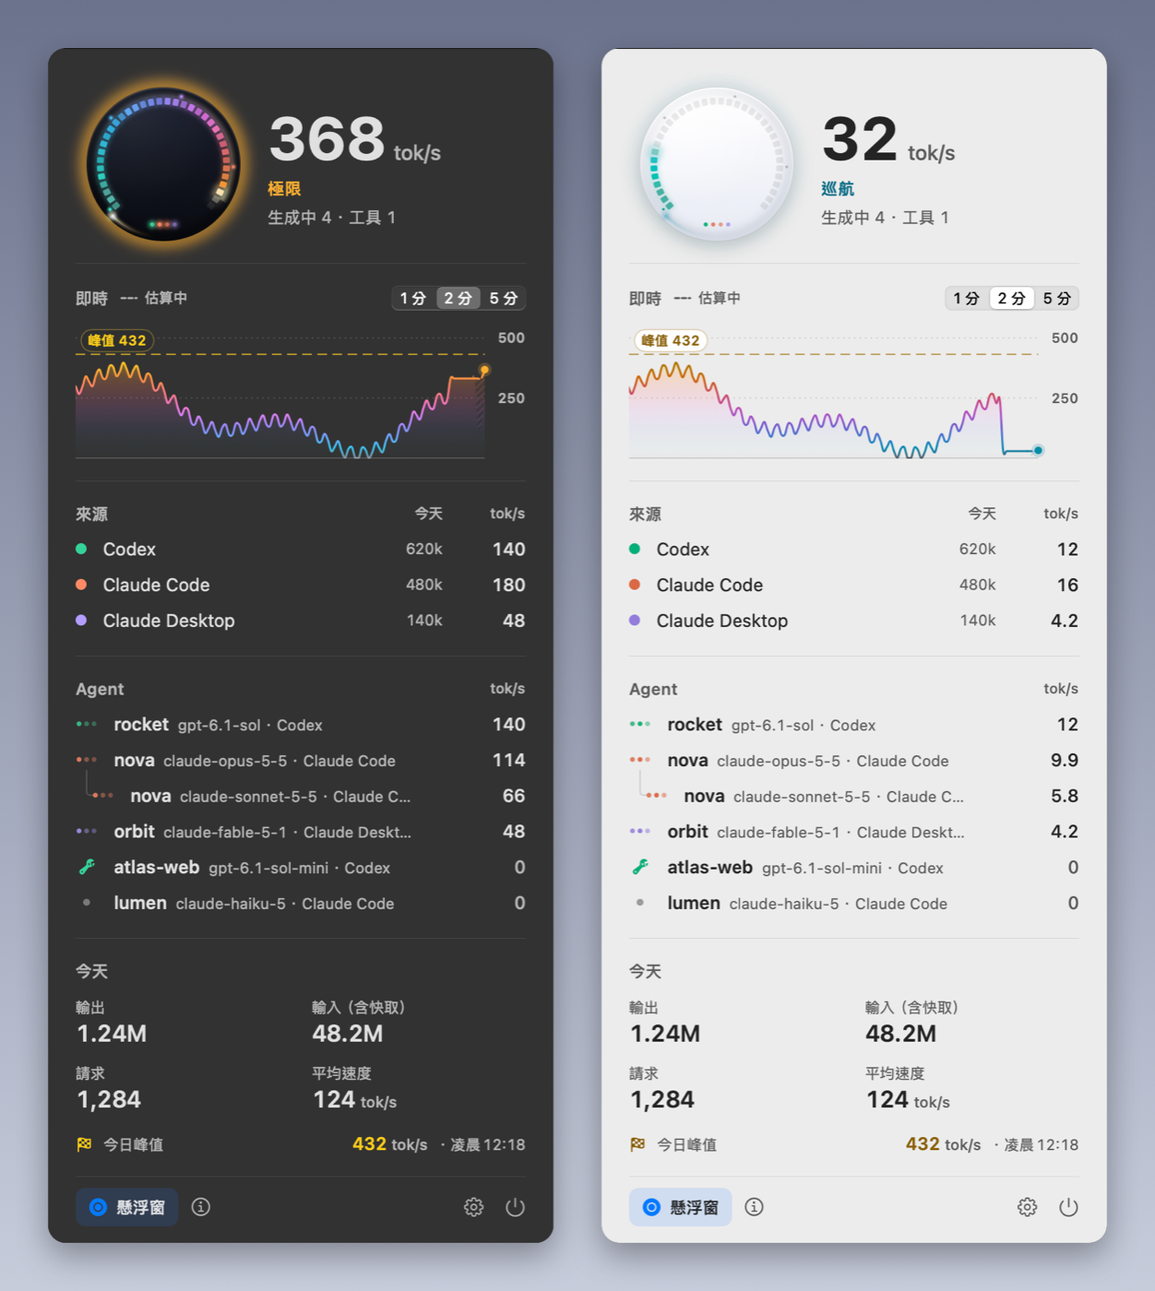
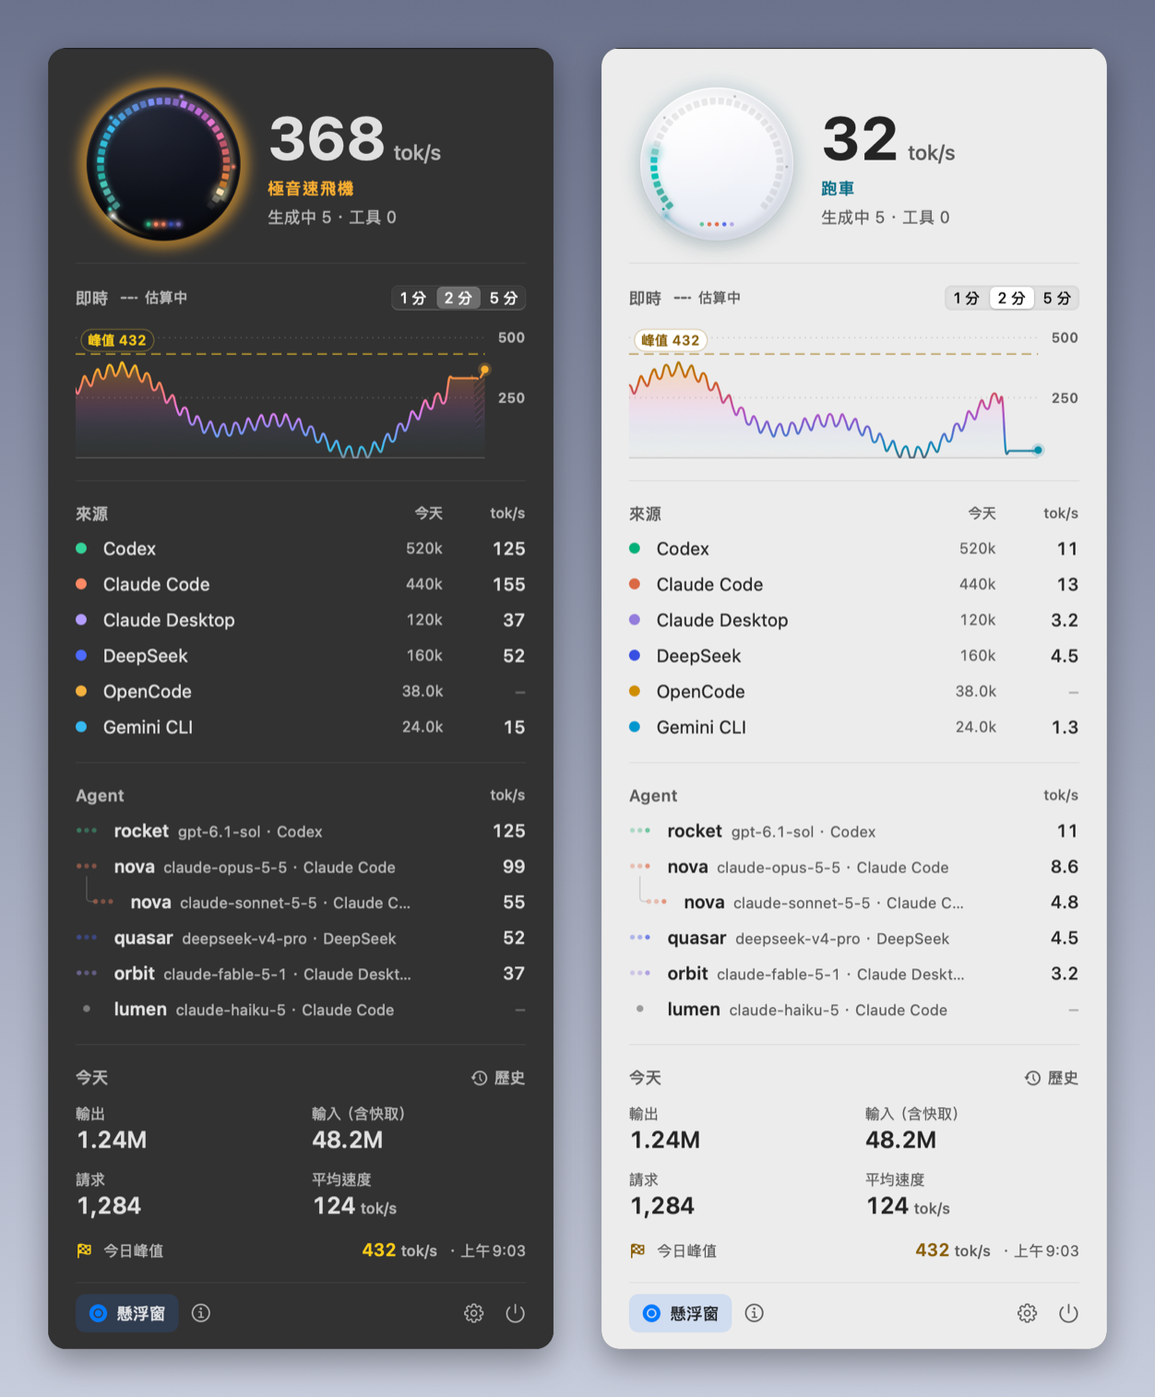
Refresh README screenshots and text for the new sources, titles and usage history
Previews now copy the redline into the gauge before snapping, so every preview
shows the title and gauge for its speed; GaugeChecks verifies the real path.

diff --git a/macos/Sources/AgentSpeed/App/GaugeChecks.swift b/macos/Sources/AgentSpeed/App/GaugeChecks.swift
@@ -1,0 +1,45 @@
+import AgentSpeedCore
+import Foundation
+
+/// Checks of the speed-title path the app itself takes (`LiveGauge.ingest`, hysteresis, the 0.8 s hold and the
+/// decision timer), run by `--render-previews`. Results land in `gauge-checks.txt`; failures also go to stderr.
+@MainActor
+enum GaugeChecks {
+    static func run(into directory: URL) {
+        var results: [(String, Bool)] = []
+        func check(_ name: String, _ condition: Bool) { results.append((name, condition)) }
+
+        // Ladder positions at the default redline.
+        check("32 tok/s is a sports car at R = 400", SpeedTitle.step(for: 32, redline: 400) == .sportsCar)
+        check("31.9 tok/s is still a car", SpeedTitle.step(for: 31.9, redline: 400) == .car)
+        check("400 tok/s is a rocket", SpeedTitle.step(for: 400, redline: 400) == .rocket)
+        check("0.5 tok/s walks", SpeedTitle.step(for: 0.5, redline: 400) == .walk)
+
+        // The tracker climbs straight to the right title, but only after the hold.
+        var tracker = TitleTracker()
+        let early = tracker.update(value: 32, redline: 400, now: 0) || tracker.update(value: 32, redline: 400, now: 0.5)
+        check("no title before the 0.8 s hold", !early && tracker.shown == .idle)
+        check("sports car after the hold", tracker.update(value: 32, redline: 400, now: 0.81) && tracker.shown == .sportsCar)
+        check("hysteresis keeps the title above 90 %", !tracker.update(value: 29, redline: 400, now: 2) && tracker.shown == .sportsCar)
+        _ = tracker.update(value: 28, redline: 400, now: 3)
+        check("leaves below 90 % after the hold", tracker.update(value: 28, redline: 400, now: 3.81) && tracker.shown == .car)
+
+        // The app path: a steady 32 tok/s ingested once reaches the title through the gauge's own decision timer.
+        let gauge = LiveGauge()
+        gauge.redline = 400
+        let start = Clock.now
+        gauge.ingest(32, now: start)
+        check("gauge holds the title at first", gauge.title == .idle)
+        RunLoop.main.run(until: Date().addingTimeInterval(1.1))
+        check("gauge reaches sports car on its own after the hold", gauge.title == .sportsCar)
+        check("effect tier stays cruise", gauge.tier == .cruise)
+        gauge.ingest(32, now: Clock.now)
+        check("steady value keeps the title", gauge.title == .sportsCar)
+
+        let report = results.map { "\($0.1 ? "PASS" : "FAIL")  \($0.0)" }.joined(separator: "\n")
+        try? (report + "\n").write(to: directory.appendingPathComponent("gauge-checks.txt"), atomically: true, encoding: .utf8)
+        for (name, passed) in results where !passed {
+            FileHandle.standardError.write(Data("gauge check failed: \(name)\n".utf8))
+        }
+    }
+}

diff --git a/macos/Sources/AgentSpeed/App/HistoryPreviews.swift b/macos/Sources/AgentSpeed/App/HistoryPreviews.swift
@@ -139,10 +139,17 @@ enum HistoryPreviews {
                     window.appearance = NSAppearance(named: dark ? .darkAqua : .aqua)
                     window.setContentSize(item.size)
                     window.center()
-                    // Screenshots need the active-window look; cooperative activation alone may be declined.
-                    _ = NSApp.perform(NSSelectorFromString("activateIgnoringOtherApps:"), with: true)
-                    window.makeKeyAndOrderFront(nil)
-                    try? await Task.sleep(for: .seconds(1.2))
+                    // Wherever the pointer happens to be, it must not leave a hover state in the picture.
+                    window.ignoresMouseEvents = true
+                    // Screenshots need the active-window look; cooperative activation alone may be declined,
+                    // so ask again until the window is key (or give up after a few tries).
+                    for _ in 0..<8 where !window.isKeyWindow {
+                        NSApp.activate()
+                        _ = NSApp.perform(NSSelectorFromString("activateIgnoringOtherApps:"), with: true)
+                        window.makeKeyAndOrderFront(nil)
+                        try? await Task.sleep(for: .seconds(0.3))
+                    }
+                    try? await Task.sleep(for: .seconds(1.0))
                     let url = directory.appendingPathComponent("screen-\(item.name)-\(dark ? "dark" : "light").png")
                     let process = Process()
                     process.executableURL = URL(fileURLWithPath: "/usr/sbin/screencapture")

diff --git a/macos/Sources/AgentSpeed/App/PreviewRenderer.swift b/macos/Sources/AgentSpeed/App/PreviewRenderer.swift
@@ -19,6 +19,7 @@ enum PreviewRenderer {
         )
         model.activate(live: false)
         let redline = model.settings.redline
+        GaugeChecks.run(into: directory)
 
         if wants("orb") {
             SurfacePreviews.renderOrbs(model: model, into: directory)
@@ -98,7 +99,15 @@ enum PreviewRenderer {
 
     static func publish(_ model: AppModel, snapshot: SpeedSnapshot) {
         model.store.publishLive(snapshot)
-        model.gauge.snap(to: model.value(of: snapshot.live), now: Clock.now)
+        snapGauge(model, to: model.value(of: snapshot.live), now: Clock.now)
+    }
+
+    /// Snaps the gauge, title and tier to `value` at the current settings. The app syncs the gauge's redline from the
+    /// settings asynchronously, so a preview that just changed the redline (the redline ladder renders) would
+    /// otherwise snap against a stale one and show the wrong title and heat.
+    static func snapGauge(_ model: AppModel, to value: Double, tier: SpeedTier? = nil, now: TimeInterval) {
+        model.gauge.redline = model.settings.redline
+        model.gauge.snap(to: value, tier: tier, now: now)
     }
 }
 

diff --git a/macos/Sources/AgentSpeed/App/SurfacePreviews.swift b/macos/Sources/AgentSpeed/App/SurfacePreviews.swift
@@ -55,7 +55,7 @@ enum SurfacePreviews {
         let snapshot = PreviewData.snapshot(speed: speed, redline: model.settings.redline)
         model.store.publishLive(snapshot)
         let now = Clock.now
-        model.gauge.snap(to: speed, tier: tier, now: now - 3)
+        PreviewRenderer.snapGauge(model, to: speed, tier: tier, now: now - 3)
         let interaction = OrbInteraction()
         interaction.isHovered = extra == .hover
         let animator = OrbAnimator(style: .floating)
@@ -94,7 +94,7 @@ enum SurfacePreviews {
             var images: [NSImage] = []
             for value in values {
                 model.store.publishLive(PreviewData.snapshot(speed: value, redline: redline))
-                model.gauge.snap(to: value, now: Clock.now - 3)
+                PreviewRenderer.snapGauge(model, to: value, now: Clock.now - 3)
                 let state = StatusItemState(model: model, time: Clock.now)
                 let size = CGSize(width: 120, height: state.layout.height)
                 let image = NSImage(size: size, flipped: true) { rect in

diff --git a/macos/Sources/AgentSpeed/App/TitlePreviews.swift b/macos/Sources/AgentSpeed/App/TitlePreviews.swift
@@ -33,7 +33,7 @@ enum TitlePreviews {
                 let heroes = heroTitles.compactMap { title -> NSImage? in
                     let speed = speed(for: title, redline: model.settings.redline)
                     PreviewRenderer.publish(model, speed: speed)
-                    model.gauge.snap(to: speed, now: Clock.now - 3)
+                    PreviewRenderer.snapGauge(model, to: speed, now: Clock.now - 3)
                     return heroImage(model: model, dark: dark)
                 }
                 SurfacePreviews.writeColumn(heroes, to: directory.appendingPathComponent("titles-hero-\(language.rawValue)-\(scheme).png"))

diff --git a/README.md b/README.md
@@ -4,7 +4,7 @@
 
 # Agent Speed
 
-**Feel your AI agents run.** A native racing instrument for the live token speed of Codex, Claude Code, Claude Desktop and DeepSeek Harness — calm when idle, on fire at the redline.
+**Feel your AI agents run.** A native racing instrument for the live token speed of Codex, Claude Code, Claude Desktop, DeepSeek Harness, OpenCode and Gemini CLI — calm when idle, on fire at the redline.
 
 [English](README.md) · [繁體中文](README.zh-TW.md) · [简体中文](README.zh-CN.md) · [日本語](README.ja.md)
 
@@ -49,14 +49,17 @@ Add `--purge` / `-Purge` to remove settings as well. On Windows you can also uni
 
 ## What you get
 
-- **Floating orb** — a smoked-glass instrument with a 36-segment LED gauge. As speed climbs through *Cruise → Boost → Overdrive → Redline*, the gauge sweeps through the heat spectrum, a comet races around the ring, sparks fly, embers rise and every finished response sends out a shockwave. Beat your daily peak and it celebrates.
+- **Floating orb** — a smoked-glass instrument with a 36-segment LED gauge. As speed climbs, so does its title — from *Walking* and *Bicycle* through *Bullet Train* and *Fighter Jet* to *Rocket* at the redline — while the gauge sweeps through the heat spectrum, a comet races around the ring, sparks fly, embers rise and every finished response sends out a shockwave. Beat your daily peak and it celebrates.
 - **Menu bar / taskbar** — a compact gauge and number that never jitters, right where you look. On Windows it lives inside the taskbar, next to the clock.
-- **Dashboard** — live chart, per-source speed, every active agent (including sub-agents) with its phase, and today's totals.
+- **Dashboard** — live chart, per-source speed, every active agent (including sub-agents) with its phase, and today's totals. Click a source to open its history.
+- **Usage history** — every day since your oldest log: output and input tokens, requests, average speed and peak, charted by source over any date range, with CSV export. Only daily totals are kept, so your history survives even after your tools delete old logs.
 - **Native everywhere** — SwiftUI + AppKit on macOS, WPF with Fluent/Mica on Windows. Light, dark or automatic theme. English, 繁體中文, 简体中文, 日本語.
 - **Humane** — effects intensity from *Off* to *Max*, respects Reduce Motion and high contrast, click-through mode, magnetic edges, remembers its place on every display, launches at login.
 - **Always current** — checks GitHub Releases in the background and updates with one click, verified by SHA-256.
 
 <p align="center"><img src="docs/images/dashboards.png" width="560" alt="Dashboard in dark and light"></p>
+
+<p align="center"><img src="docs/images/history.png" width="760" alt="Usage history window"></p>
 
 ## How speed is measured
 
@@ -64,10 +67,12 @@ Agent Speed reads the transcripts your agents already write on your disk:
 
 | Source | Folder |
 | --- | --- |
-| Codex (CLI, IDE, desktop) | `~/.codex/sessions` (or `$CODEX_HOME/sessions`) |
+| Codex (CLI, IDE, desktop) | `~/.codex/sessions` and `archived_sessions`, compressed logs included (or `$CODEX_HOME`) |
 | Claude Code (CLI, IDE) | `~/.claude/projects` (or `$CLAUDE_CONFIG_DIR/projects`) |
 | Claude Desktop (Code and agent sessions) | `~/.claude/projects`, told apart automatically |
 | DeepSeek Harness (`dsh`, desktop and CLI) | `~/.dsh/sessions` (or `$DSH_HOME/sessions`) |
+| OpenCode (CLI and desktop) | `~/.local/share/opencode/opencode.db` (or `$XDG_DATA_HOME/opencode`) |
+| Gemini CLI | `~/.gemini/tmp` (or `$GEMINI_CLI_HOME/.gemini/tmp`) |
 
 **Speed = output tokens ÷ the real time the model spent on them** — from the moment the request was sent until the response finished, including time to first token. Parallel agents add up. While a response is still streaming, it is estimated from that agent's recent measured speed and corrected with the measured value the instant it completes. Optionally you can switch to *total throughput* (input + output).
 
@@ -77,7 +82,7 @@ Ordinary Claude Desktop chat conversations are not stored on your computer, so t
 
 ## Privacy
 
-Read-only. Local-only. No telemetry, no accounts. The only network request is the update check against GitHub Releases (it can be turned off), which sends nothing about you. Agent Speed never stores or displays conversation content — only token counts, model names and project folder names. Updates are verified against the release's SHA-256 checksums before they are installed; the checksums are published with the release, so they catch corrupted or tampered downloads, not a compromised repository.
+Read-only. Local-only. No telemetry, no accounts. The only network request is the update check against GitHub Releases (it can be turned off), which sends nothing about you. Agent Speed never stores or displays conversation content — only token counts, model names and project folder names. The usage history keeps only daily totals, in a small database on your computer (`~/Library/Application Support/AgentSpeed`, `%LOCALAPPDATA%\AgentSpeed`), and can be cleared in Settings. Updates are verified against the release's SHA-256 checksums before they are installed; the checksums are published with the release, so they catch corrupted or tampered downloads, not a compromised repository.
 
 ## Build from source
 

diff --git a/README.zh-TW.md b/README.zh-TW.md
@@ -4,7 +4,7 @@
 
 # Agent Speed
 
-**看見你的 AI agent 全速奔跑。** 為 Codex、Claude Code、Claude Desktop 與 DeepSeek Harness 打造的原生即時 token 速度儀表——閒置時安靜，衝到紅線時全面燃燒。
+**看見你的 AI agent 全速奔跑。** 為 Codex、Claude Code、Claude Desktop、DeepSeek Harness、OpenCode 與 Gemini CLI 打造的原生即時 token 速度儀表——閒置時安靜，衝到紅線時全面燃燒。
 
 [English](README.md) · [繁體中文](README.zh-TW.md) · [简体中文](README.zh-CN.md) · [日本語](README.ja.md)
 
@@ -44,14 +44,17 @@ curl -fsSL https://raw.githubusercontent.com/zoefix/agent-speed/main/install.sh 
 
 ## 功能
 
-- **懸浮窗**——煙燻玻璃質感的儀表，36 格 LED 錶盤。速度從「巡航 → 加速 → 狂飆 → 極限」一路攀升時，錶盤沿著熱度光譜點亮、彗星繞圈疾馳、火花四濺、餘燼升騰，每完成一次回應就釋放一道衝擊波；打破今日紀錄還會慶祝。
+- **懸浮窗**——煙燻玻璃質感的儀表，36 格 LED 錶盤。速度一路攀升時，稱號也跟著升級——從「步行」「自行車」到「高鐵」「戰鬥機」，衝到紅線就是「火箭」；錶盤沿著熱度光譜點亮、彗星繞圈疾馳、火花四濺、餘燼升騰，每完成一次回應就釋放一道衝擊波；打破今日紀錄還會慶祝。
 - **選單列／工作列**——精簡的儀表與數字，寬度固定不跳動。Windows 版直接嵌在工作列裡、時鐘旁邊。
-- **面板**——即時曲線、各來源速度、所有正在工作的 agent（含子 agent）與其狀態、今日統計。
+- **面板**——即時曲線、各來源速度、所有正在工作的 agent（含子 agent）與其狀態、今日統計。點一下來源就能打開它的用量歷史。
+- **用量歷史**——從最早的紀錄開始，每天的輸出與輸入 token、請求數、平均速度與峰值，可依來源與任意日期區間繪成圖表，並匯出 CSV。只保存每日彙總，即使工具刪除了舊紀錄，歷史也不會消失。
 - **全原生**——macOS 使用 SwiftUI + AppKit，Windows 使用 WPF 與 Fluent／Mica。淺色、深色、自動主題；繁體中文、简体中文、English、日本語。
 - **人性化**——特效強度從「關閉」到「熱血全開」，遵循「減少動態效果」與高對比設定，支援滑鼠穿透、邊緣磁吸、記住每個螢幕上的位置、登入時自動啟動。
 - **永遠最新**——背景檢查 GitHub Releases，有新版一鍵更新，並以 SHA-256 驗證。
 
 <p align="center"><img src="docs/images/dashboards.png" width="560" alt="深色與淺色面板"></p>
+
+<p align="center"><img src="docs/images/history.png" width="760" alt="用量歷史視窗"></p>
 
 ## 速度怎麼算
 
@@ -59,10 +62,12 @@ Agent Speed 只讀取 agent 本來就寫在你電腦上的紀錄：
 
 | 來源 | 資料夾 |
 | --- | --- |
-| Codex（CLI、IDE、桌面版） | `~/.codex/sessions`（或 `$CODEX_HOME/sessions`） |
+| Codex（CLI、IDE、桌面版） | `~/.codex/sessions` 與 `archived_sessions`，含壓縮紀錄（或 `$CODEX_HOME`） |
 | Claude Code（CLI、IDE） | `~/.claude/projects`（或 `$CLAUDE_CONFIG_DIR/projects`） |
 | Claude Desktop（Code 與 agent 工作階段） | `~/.claude/projects`，自動區分 |
 | DeepSeek Harness（`dsh`，桌面版與命令列） | `~/.dsh/sessions`（或 `$DSH_HOME/sessions`） |
+| OpenCode（命令列與桌面版） | `~/.local/share/opencode/opencode.db`（或 `$XDG_DATA_HOME/opencode`） |
+| Gemini CLI | `~/.gemini/tmp`（或 `$GEMINI_CLI_HOME/.gemini/tmp`） |
 
 **速度＝輸出 token ÷ 模型實際花在這些 token 上的時間**——從送出請求到回應完成，含等待第一個字。多個 agent 平行時會加總。回應還在進行中時，先以該 agent 近期的實測速度估算，完成的瞬間立即以實測值校正。也可以切換成「總吞吐量」（輸入＋輸出）。
 
@@ -72,7 +77,7 @@ Claude Desktop 一般聊天對話不會存在本機，因此無法統計。
 
 ## 隱私
 
-只讀、只在本機。不收集資料、不需要帳號；唯一的網路連線是向 GitHub Releases 檢查更新（可關閉），不傳送任何個人資料，安裝更新前會先驗證 SHA-256 校驗碼（校驗碼與發佈版本放在一起，能擋下損毀或被竄改的下載，但無法防範倉庫本身遭入侵）。Agent Speed 不會儲存或顯示對話內容——只用到 token 數量、模型名稱與專案資料夾名稱。
+只讀、只在本機。不收集資料、不需要帳號；唯一的網路連線是向 GitHub Releases 檢查更新（可關閉），不傳送任何個人資料，安裝更新前會先驗證 SHA-256 校驗碼（校驗碼與發佈版本放在一起，能擋下損毀或被竄改的下載，但無法防範倉庫本身遭入侵）。Agent Speed 不會儲存或顯示對話內容——只用到 token 數量、模型名稱與專案資料夾名稱。用量歷史只保存每日彙總，存在你電腦上的一個小型資料庫（`~/Library/Application Support/AgentSpeed`、`%LOCALAPPDATA%\AgentSpeed`），可在設定中清除。
 
 ## 從原始碼建置
 

diff --git a/README.zh-CN.md b/README.zh-CN.md
@@ -4,7 +4,7 @@
 
 # Agent Speed
 
-**看见你的 AI agent 全速奔跑。** 为 Codex、Claude Code、Claude Desktop 与 DeepSeek Harness 打造的原生实时 token 速度仪表——空闲时安静，冲到红线时全面燃烧。
+**看见你的 AI agent 全速奔跑。** 为 Codex、Claude Code、Claude Desktop、DeepSeek Harness、OpenCode 与 Gemini CLI 打造的原生实时 token 速度仪表——空闲时安静，冲到红线时全面燃烧。
 
 [English](README.md) · [繁體中文](README.zh-TW.md) · [简体中文](README.zh-CN.md) · [日本語](README.ja.md)
 
@@ -44,14 +44,17 @@ curl -fsSL https://raw.githubusercontent.com/zoefix/agent-speed/main/install.sh 
 
 ## 功能
 
-- **悬浮窗**——烟熏玻璃质感的仪表，36 格 LED 表盘。速度从「巡航 → 加速 → 狂飙 → 极限」一路攀升时，表盘沿着热度光谱点亮、彗星绕圈疾驰、火花四溅、余烬升腾，每完成一次回应就释放一道冲击波；打破今日纪录还会庆祝。
+- **悬浮窗**——烟熏玻璃质感的仪表，36 格 LED 表盘。速度一路攀升时，称号也跟着升级——从「步行」「自行车」到「高铁」「战斗机」，冲到红线就是「火箭」；表盘沿着热度光谱点亮、彗星绕圈疾驰、火花四溅、余烬升腾，每完成一次回应就释放一道冲击波；打破今日纪录还会庆祝。
 - **菜单栏／任务栏**——精简的仪表与数字，宽度固定不跳动。Windows 版直接嵌在任务栏里、时钟旁边。
-- **面板**——实时曲线、各来源速度、所有正在工作的 agent（含子 agent）及其状态、今日统计。
+- **面板**——实时曲线、各来源速度、所有正在工作的 agent（含子 agent）及其状态、今日统计。点一下来源就能打开它的用量历史。
+- **用量历史**——从最早的记录开始，每天的输出与输入 token、请求数、平均速度与峰值，可按来源与任意日期区间绘成图表，并导出 CSV。只保存每日汇总，即使工具删除了旧记录，历史也不会消失。
 - **全原生**——macOS 使用 SwiftUI + AppKit，Windows 使用 WPF 与 Fluent／Mica。浅色、深色、自动主题；繁體中文、简体中文、English、日本語。
 - **人性化**——特效强度从「关闭」到「热血全开」，遵循「减弱动态效果」与高对比度设置，支持鼠标穿透、边缘磁吸、记住每块屏幕上的位置、登录时自动启动。
 - **永远最新**——后台检查 GitHub Releases，有新版一键更新，并以 SHA-256 验证。
 
 <p align="center"><img src="docs/images/dashboards.png" width="560" alt="深色与浅色面板"></p>
+
+<p align="center"><img src="docs/images/history.png" width="760" alt="用量历史窗口"></p>
 
 ## 速度怎么算
 
@@ -59,10 +62,12 @@ Agent Speed 只读取 agent 本来就写在你电脑上的记录：
 
 | 来源 | 文件夹 |
 | --- | --- |
-| Codex（CLI、IDE、桌面版） | `~/.codex/sessions`（或 `$CODEX_HOME/sessions`） |
+| Codex（CLI、IDE、桌面版） | `~/.codex/sessions` 与 `archived_sessions`，含压缩记录（或 `$CODEX_HOME`） |
 | Claude Code（CLI、IDE） | `~/.claude/projects`（或 `$CLAUDE_CONFIG_DIR/projects`） |
 | Claude Desktop（Code 与 agent 会话） | `~/.claude/projects`，自动区分 |
 | DeepSeek Harness（`dsh`，桌面版与命令行） | `~/.dsh/sessions`（或 `$DSH_HOME/sessions`） |
+| OpenCode（命令行与桌面版） | `~/.local/share/opencode/opencode.db`（或 `$XDG_DATA_HOME/opencode`） |
+| Gemini CLI | `~/.gemini/tmp`（或 `$GEMINI_CLI_HOME/.gemini/tmp`） |
 
 **速度＝输出 token ÷ 模型实际花在这些 token 上的时间**——从发出请求到回应完成，含等待第一个字。多个 agent 并行时会加总。回应仍在进行时，先以该 agent 近期的实测速度估算，完成的瞬间立即以实测值校正。也可以切换成「总吞吐量」（输入＋输出）。
 
@@ -72,7 +77,7 @@ Claude Desktop 普通聊天对话不会保存在本机，因此无法统计。
 
 ## 隐私
 
-只读、只在本机。不收集数据、不需要账号；唯一的网络连接是向 GitHub Releases 检查更新（可关闭），不发送任何个人数据，安装更新前会先验证 SHA-256 校验码（校验码与发布版本放在一起，能拦下损坏或被篡改的下载，但无法防范仓库本身被入侵）。Agent Speed 不会保存或显示对话内容——只用到 token 数量、模型名称与项目文件夹名称。
+只读、只在本机。不收集数据、不需要账号；唯一的网络连接是向 GitHub Releases 检查更新（可关闭），不发送任何个人数据，安装更新前会先验证 SHA-256 校验码（校验码与发布版本放在一起，能拦下损坏或被篡改的下载，但无法防范仓库本身被入侵）。Agent Speed 不会保存或显示对话内容——只用到 token 数量、模型名称与项目文件夹名称。用量历史只保存每日汇总，存放在你电脑上的一个小型数据库（`~/Library/Application Support/AgentSpeed`、`%LOCALAPPDATA%\AgentSpeed`），可在设置中清除。
 
 ## 从源码构建
 
